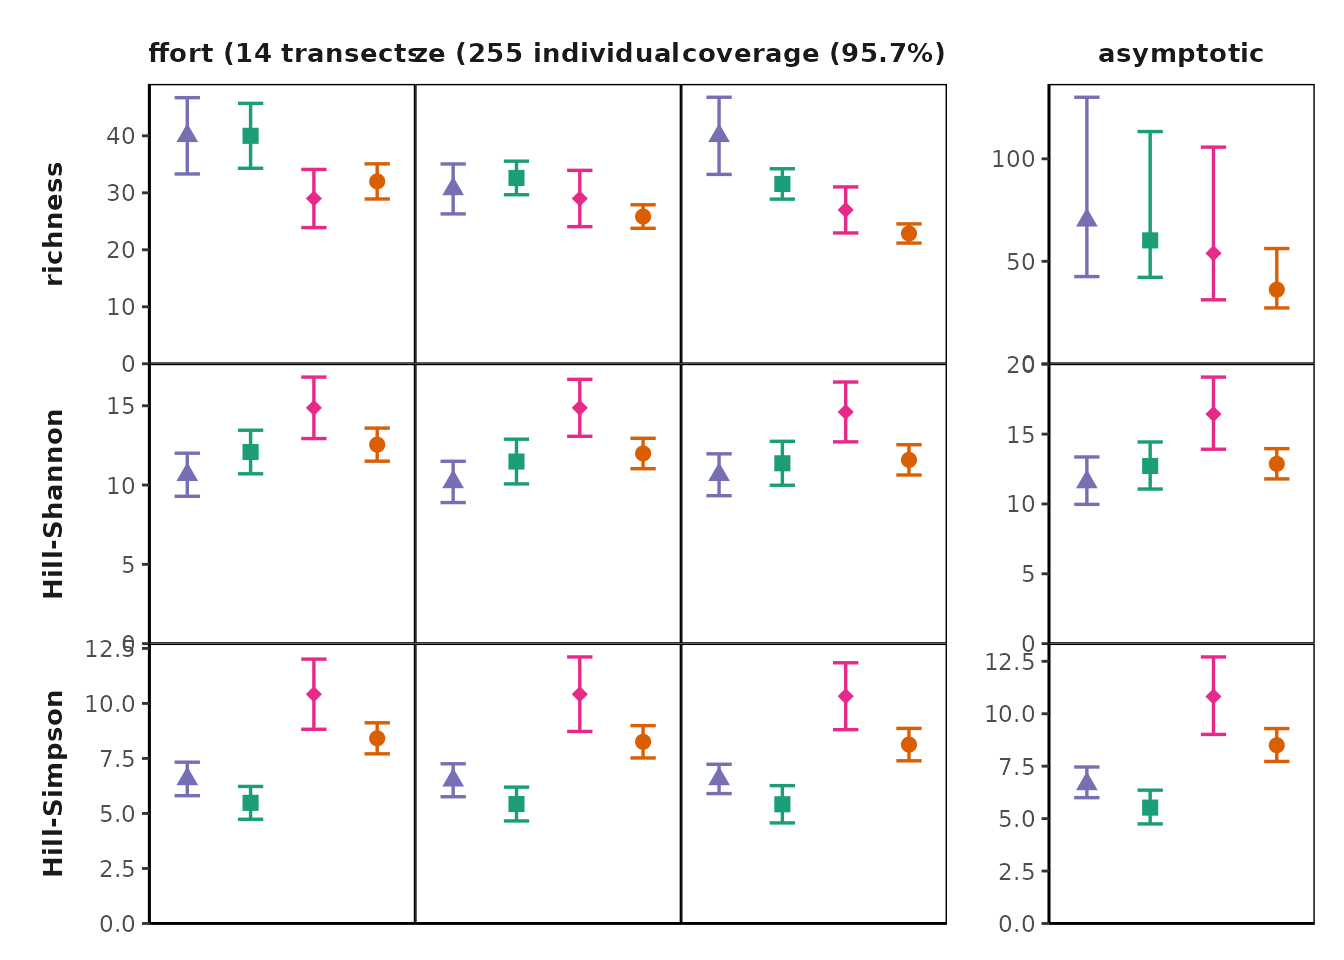
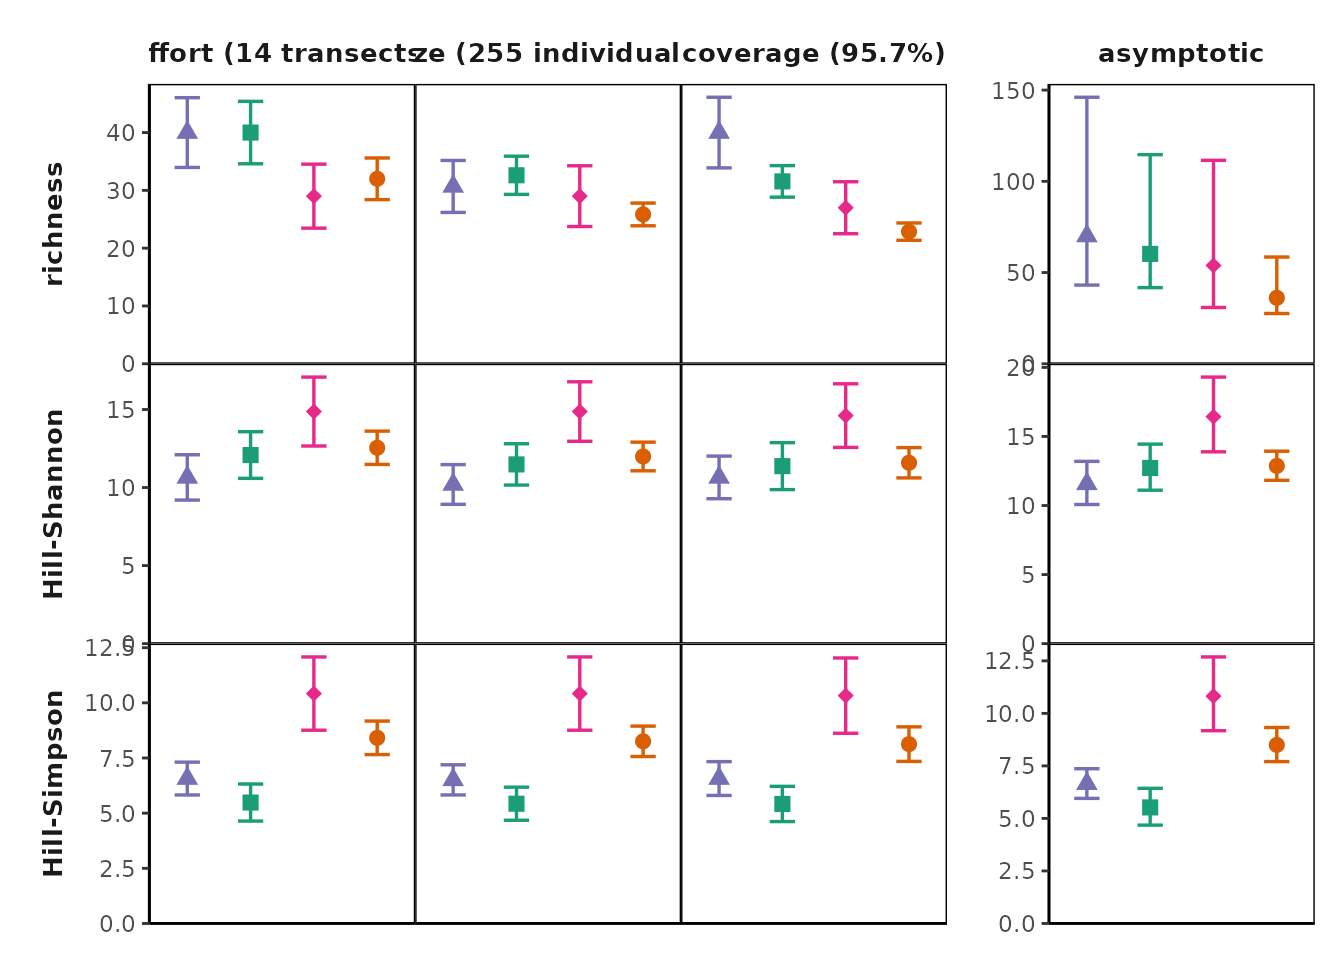
Built site for MeanRarity: 0.0.1.0004@66b0568

diff --git a/articles/Using_MeanRarity.html b/articles/Using_MeanRarity.html
@@ -329,16 +329,16 @@ functions to enable this --></p>
 <span class="va">uneven_sample</span> <span class="op">&lt;-</span> <span class="fu"><a href="../reference/sample_infinite.html">sample_infinite</a></span><span class="op">(</span><span class="va">uneven_SAD</span><span class="op">$</span><span class="va">rel_abundances</span>, <span class="fl">50</span><span class="op">)</span>
 <span class="co">#sample_infinite returns a numeric vector of sample species abundances</span>
 <span class="va">even_sample</span>
-<span class="co">#&gt;  [1]  6 12  4  4  2  1  2  0  2  1  1  2  1  1  0  1  5  0  4  1</span>
+<span class="co">#&gt;  [1]  8  9 10  4  2  3  1  4  2  1  1  0  2  0  3  0  0  0  0  0</span>
 <span class="va">uneven_sample</span>
-<span class="co">#&gt;  [1] 21  9  5  0  2  3  1  3  2  0  2  0  2  0  0  0  0  0  0  0</span>
+<span class="co">#&gt;  [1] 17  7  9  3  1  2  4  1  2  1  0  0  1  0  0  1  1  0  0  0</span>
 
 <span class="co"># we can compare evenness (given a scaling parameter `l`)</span>
 <span class="co"># the evenness is the normalized ratio of an arbitrary Hill diversity to richness</span>
 <span class="fu"><a href="../reference/e3Fun.html">e3Fun</a></span><span class="op">(</span><span class="va">even_sample</span>, <span class="op">-</span><span class="fl">1</span><span class="op">)</span>
-<span class="co">#&gt; [1] 0.5036232</span>
+<span class="co">#&gt; [1] 0.5887097</span>
 <span class="fu"><a href="../reference/e3Fun.html">e3Fun</a></span><span class="op">(</span><span class="va">uneven_sample</span>, <span class="op">-</span><span class="fl">1</span><span class="op">)</span>
-<span class="co">#&gt; [1] 0.3661703</span>
+<span class="co">#&gt; [1] 0.3715429</span>
 
 <span class="co"># compare diversity from sample vs. ideal SAD:</span>
 <span class="co"># likely pretty far off for a small sample!</span>
@@ -351,7 +351,7 @@ functions to enable this --></p>
   <span class="fu"><a href="../reference/rarity.html">rarity</a></span><span class="op">(</span><span class="va">even_sample</span>, <span class="va">l</span><span class="op">)</span>
 <span class="op">}</span><span class="op">)</span><span class="op">)</span>
 <span class="co">#&gt;      [,1] [,2]     [,3]    </span>
-<span class="co">#&gt; [1,] 17   12.13479 9.057971</span>
+<span class="co">#&gt; [1,] 13   9.840206 8.064516</span>
 
 <span class="co"># with an uneven SAD, sample Hill-Simpson can be higher than true Hill-Simpson</span>
 <span class="co"># richness is always lower</span>
@@ -362,7 +362,7 @@ functions to enable this --></p>
   <span class="fu"><a href="../reference/rarity.html">rarity</a></span><span class="op">(</span><span class="va">uneven_sample</span>, <span class="va">l</span><span class="op">)</span>
 <span class="op">}</span><span class="op">)</span><span class="op">)</span>
 <span class="co">#&gt;      [,1] [,2]     [,3]    </span>
-<span class="co">#&gt; [1,] 10   6.259763 4.295533</span>
+<span class="co">#&gt; [1,] 13   7.756495 5.458515</span>
 
 
 <span class="va">big_even_sample</span> <span class="op">&lt;-</span> <span class="fu"><a href="../reference/sample_infinite.html">sample_infinite</a></span><span class="op">(</span><span class="va">even_SAD</span><span class="op">$</span><span class="va">rel_abundances</span>, <span class="fl">1e7</span><span class="op">)</span>
@@ -375,8 +375,8 @@ functions to enable this --></p>
 <span class="fu"><a href="https://rdrr.io/r/base/cbind.html" class="external-link">rbind</a></span><span class="op">(</span><span class="fu"><a href="https://rdrr.io/r/base/lapply.html" class="external-link">lapply</a></span><span class="op">(</span><span class="fu"><a href="https://rdrr.io/r/base/c.html" class="external-link">c</a></span><span class="op">(</span><span class="fl">1</span>, <span class="fl">0</span>, <span class="op">-</span><span class="fl">1</span><span class="op">)</span>, <span class="kw">function</span><span class="op">(</span><span class="va">l</span><span class="op">)</span><span class="op">{</span>
   <span class="fu"><a href="../reference/rarity.html">rarity</a></span><span class="op">(</span><span class="va">big_even_sample</span>, <span class="va">l</span><span class="op">)</span>
 <span class="op">}</span><span class="op">)</span><span class="op">)</span>
-<span class="co">#&gt;      [,1] [,2]    [,3]    </span>
-<span class="co">#&gt; [1,] 20   15.1189 11.99834</span></code></pre></div>
+<span class="co">#&gt;      [,1] [,2]     [,3]    </span>
+<span class="co">#&gt; [1,] 20   15.11934 12.00018</span></code></pre></div>
 <p>For any distribution of relative abundances, one can ask, “what is the Hill diversity of this distribution?” Yet the answer, of course, depends on the chosen value of the scaling parameter <span class="math inline">\(\ell\)</span>. For a comprehensive answer, one might look across values of <span class="math inline">\(\ell\)</span>, also known as a Hill “diversity profile” <span class="citation">(Chao et al. 2014)</span>. <strong>MeanRarity</strong> provides a function to generate a Hill diversity profile based on <span class="math inline">\(\ell\)</span> (rather than <span class="math inline">\(q\)</span>): <code><a href="../reference/divpro.html">divpro()</a></code>. <!-- these should be on a single plot, will be much more interesting that way!--></p>
 <div class="sourceCode" id="cb8"><pre class="downlit sourceCode r">
 <code class="sourceCode R"><span class="co"># the even and uneven communities have same richness but different Hill </span>

diff --git a/reference/rmsle.html b/reference/rmsle.html
@@ -86,10 +86,10 @@
     <div class="sourceCode"><pre class="sourceCode r"><code><span class="r-in"></span>
 <span class="r-in"><span class="va">x</span> <span class="op">&lt;-</span> <span class="fu"><a href="https://rdrr.io/r/stats/Lognormal.html" class="external-link">rlnorm</a></span><span class="op">(</span>n <span class="op">=</span> <span class="fl">1e5</span><span class="op">)</span></span>
 <span class="r-in"><span class="fu">rmsle</span><span class="op">(</span><span class="va">x</span><span class="op">)</span> <span class="co"># should be very close to sdlog of lnorm, 1</span></span>
-<span class="r-out co"><span class="r-pr">#&gt;</span> [1] 0.9981873</span>
+<span class="r-out co"><span class="r-pr">#&gt;</span> [1] 1.007604</span>
 <span class="r-in"><span class="va">y</span> <span class="op">&lt;-</span> <span class="fu"><a href="https://rdrr.io/r/stats/Normal.html" class="external-link">rnorm</a></span><span class="op">(</span>n <span class="op">=</span> <span class="fl">5000</span>, mean <span class="op">=</span> <span class="fl">12</span> <span class="op">)</span></span>
 <span class="r-in"><span class="fu">rmsle</span><span class="op">(</span><span class="va">y</span>, true_x <span class="op">=</span> <span class="fu"><a href="Ln.html">Ln</a></span><span class="op">(</span><span class="fl">12</span><span class="op">)</span><span class="op">)</span></span>
-<span class="r-out co"><span class="r-pr">#&gt;</span> [1] 0.08446248</span>
+<span class="r-out co"><span class="r-pr">#&gt;</span> [1] 0.08439321</span>
 <span class="r-in"><span class="fl">1</span><span class="op">/</span><span class="fl">12</span></span>
 <span class="r-out co"><span class="r-pr">#&gt;</span> [1] 0.08333333</span>
 </code></pre></div>

diff --git a/reference/Chao_Hill_abu.html b/reference/Chao_Hill_abu.html
@@ -110,11 +110,11 @@ ISSN 2041210X, doi: <a href="https://doi.org/10.1111/2041-21" class="external-li
 <span class="r-in"></span>
 <span class="r-in"><span class="co"># estimate true Hill diversity</span></span>
 <span class="r-in"><span class="fu">Chao_Hill_abu</span><span class="op">(</span><span class="va">abs</span>, l <span class="op">=</span> <span class="fl">1</span><span class="op">)</span> <span class="co"># Chao1 estimate of richness lower bound</span></span>
-<span class="r-out co"><span class="r-pr">#&gt;</span> [1] 78.23</span>
+<span class="r-out co"><span class="r-pr">#&gt;</span> [1] 54.96875</span>
 <span class="r-in"><span class="fu">Chao_Hill_abu</span><span class="op">(</span><span class="va">abs</span>, l <span class="op">=</span> <span class="fl">0</span><span class="op">)</span> <span class="co"># Asymptotic estimate of Hill-Shannon diversity</span></span>
-<span class="r-out co"><span class="r-pr">#&gt;</span> [1] 28.35573</span>
+<span class="r-out co"><span class="r-pr">#&gt;</span> [1] 32.96938</span>
 <span class="r-in"><span class="fu">Chao_Hill_abu</span><span class="op">(</span><span class="va">abs</span>, l <span class="op">=</span> <span class="op">-</span><span class="fl">1</span><span class="op">)</span> <span class="co"># Asymptotic estimate of Hill-Simpson diversity</span></span>
-<span class="r-out co"><span class="r-pr">#&gt;</span> [1] 15.47784</span>
+<span class="r-out co"><span class="r-pr">#&gt;</span> [1] 21.74125</span>
 <span class="r-in"></span>
 </code></pre></div>
     </div>

diff --git a/reference/hurl.html b/reference/hurl.html
@@ -121,7 +121,7 @@ doi: <a href="https://doi.org/10.2307/1934145" class="external-link">10.2307/193
     <h2>Examples</h2>
     <div class="sourceCode"><pre class="sourceCode r"><code><span class="r-in"><span class="va">ab</span> <span class="op">=</span> <span class="fu"><a href="https://rdrr.io/r/base/sample.html" class="external-link">sample</a></span><span class="op">(</span><span class="fl">10</span><span class="op">:</span><span class="fl">50</span>, <span class="fl">50</span>, replace <span class="op">=</span><span class="cn">TRUE</span><span class="op">)</span></span>
 <span class="r-in"><span class="fu">hurl</span><span class="op">(</span><span class="va">ab</span>, <span class="fl">2</span><span class="op">)</span></span>
-<span class="r-out co"><span class="r-pr">#&gt;</span> [1] 43.36784</span>
+<span class="r-out co"><span class="r-pr">#&gt;</span> [1] 43.79056</span>
 <span class="r-in"><span class="co"># not run</span></span>
 <span class="r-in"><span class="co"># hurl(ab, 1e5) # returns an error</span></span>
 <span class="r-in"></span>

diff --git a/reference/Chat.Ind.html b/reference/Chat.Ind.html
@@ -111,11 +111,11 @@ doi: <a href="https://doi.org/10.1890/11-1952.1" class="external-link">10.1890/1
 <span class="r-in"></span>
 <span class="r-in"><span class="co"># estimate coverage of sample</span></span>
 <span class="r-in"><span class="fu">Chat.Ind</span><span class="op">(</span><span class="va">abs</span><span class="op">)</span></span>
-<span class="r-out co"><span class="r-pr">#&gt;</span> [1] 0.9139552</span>
+<span class="r-out co"><span class="r-pr">#&gt;</span> [1] 0.9138669</span>
 <span class="r-in"></span>
 <span class="r-in"><span class="co"># estimate coverage under rarefaction</span></span>
 <span class="r-in"><span class="fu">Chat.Ind</span><span class="op">(</span><span class="va">abs</span>, m <span class="op">=</span> <span class="fl">100</span><span class="op">)</span></span>
-<span class="r-out co"><span class="r-pr">#&gt;</span> [1] 0.8669806</span>
+<span class="r-out co"><span class="r-pr">#&gt;</span> [1] 0.8645319</span>
 </code></pre></div>
     </div>
   </div>

diff --git a/reference/sample_finite.html b/reference/sample_finite.html
@@ -91,7 +91,7 @@ scalar</p></dd>
     <div id="ref-examples">
     <h2>Examples</h2>
     <div class="sourceCode"><pre class="sourceCode r"><code><span class="r-in"><span class="fu">sample_finite</span><span class="op">(</span><span class="fl">1</span><span class="op">:</span><span class="fl">9</span>, <span class="fl">15</span><span class="op">)</span></span>
-<span class="r-out co"><span class="r-pr">#&gt;</span> [1] 1 0 0 0 4 1 4 2 3</span>
+<span class="r-out co"><span class="r-pr">#&gt;</span> [1] 0 1 0 1 0 3 3 4 3</span>
 </code></pre></div>
     </div>
   </div>
